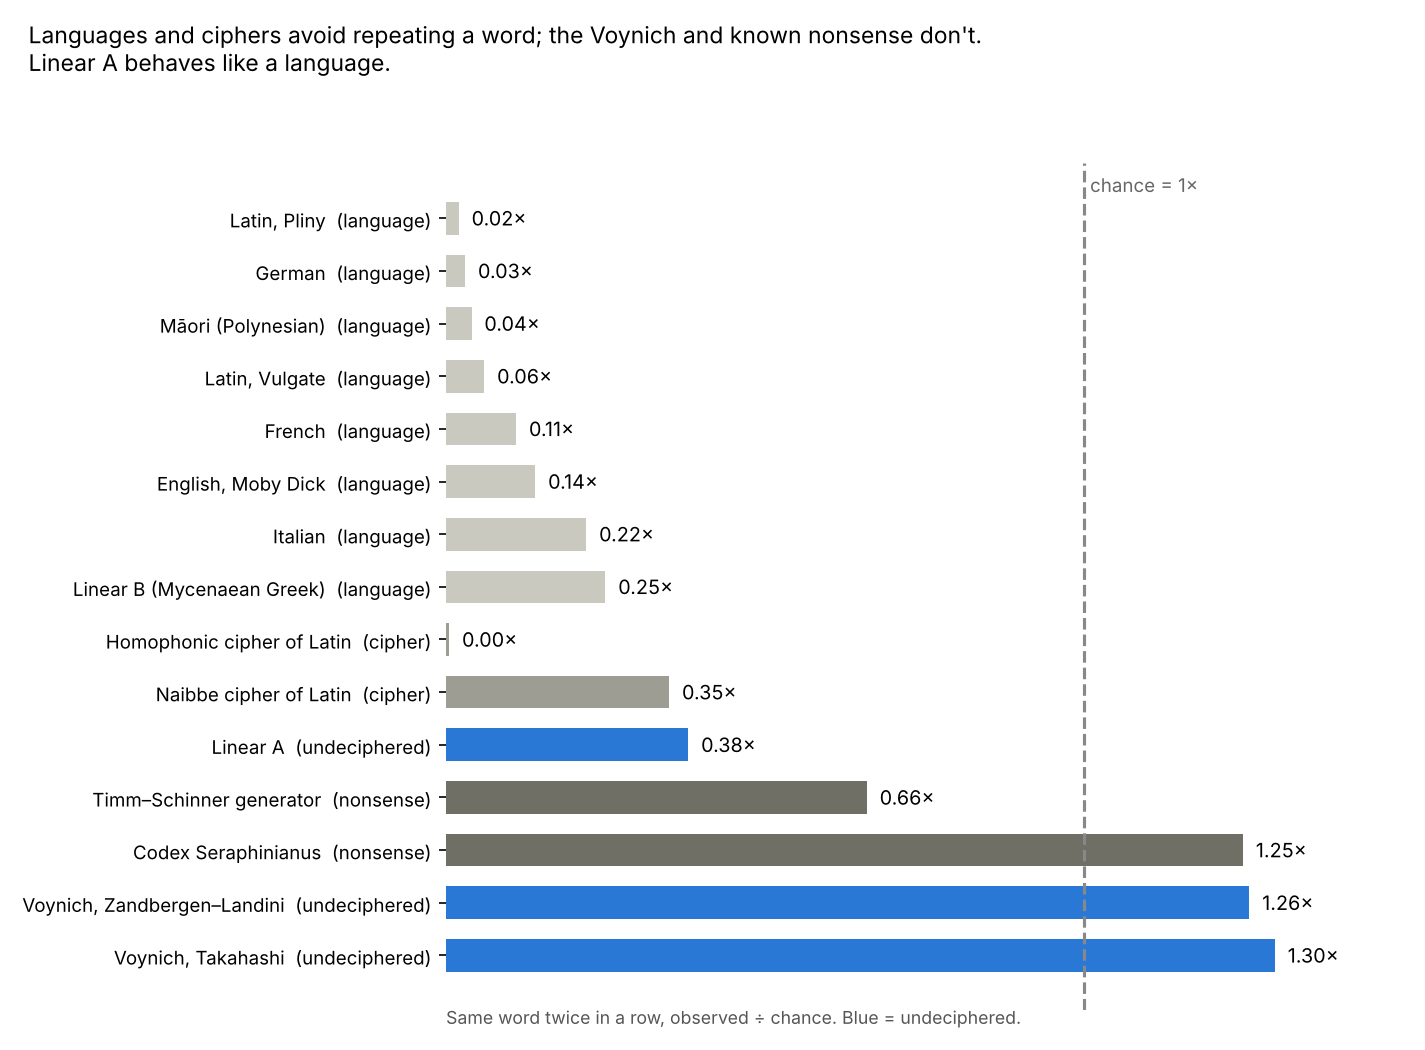
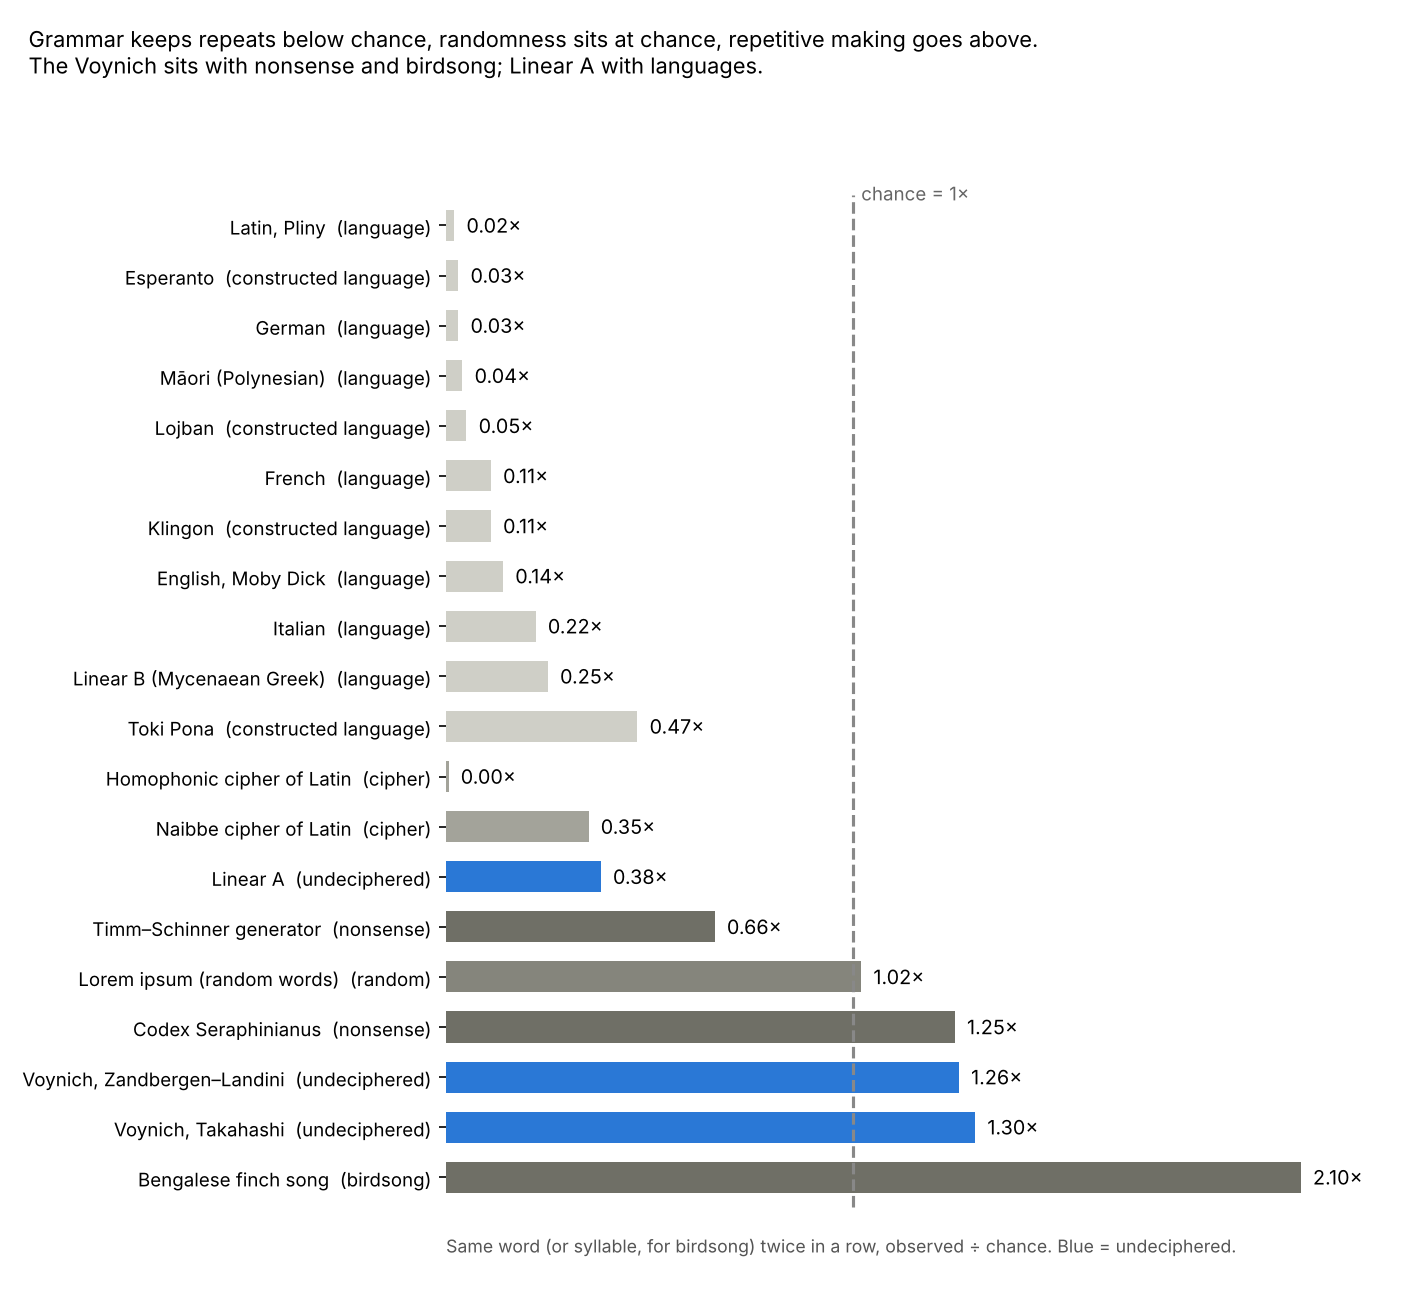
Add constructed languages, random filler and birdsong to the meter
Claude-Session: https://claude.ai/code/session_01BiNe7BRaaqwXjCdu5ayCNx

diff --git a/conlangs-and-oddities/code/conl_test.py b/conlangs-and-oddities/code/conl_test.py
@@ -1,0 +1,30 @@
+import sys,re,glob,json,random; sys.path.insert(0,'/home/claude/arch/work'); sys.path.insert(0,'/home/claude')
+from scripts_test import test
+import lorem
+C='/home/claude/conl/'
+def sents(text,alpha):
+    out=[]
+    for s in re.split(r'[.!?;:\n]+',text.lower()):
+        ws=re.findall(alpha,s)
+        if len(ws)>=3: out.append([tuple(w) for w in ws])
+    return out
+R={}
+kl=' '.join(open(f,errors='ignore').read() for f in glob.glob(C+'klingon/sources/**/*.txt',recursive=True))
+R['Klingon (xifan hol spelling)']=test(sents(kl,r"[a-z]+"),near=True)
+eo=open(C+'eo/RAW/wsdump-Zamenhof_Dietterle_Originala_Verkaro_1929.txt',errors='ignore').read()
+R['Esperanto (Zamenhof)']=test(sents(eo,r"[a-zĉĝĥĵŝŭ]+")[:20000],near=True)
+tp=[]
+for f in glob.glob(C+'poki/plaintext/**/*.md',recursive=True):
+    t='\n'.join(l for l in open(f,errors='ignore') if not l.lstrip().startswith(('#','|','---','!','[','<','>')))
+    tp+=sents(t,r"[a-z]+")
+R['Toki Pona']=test(tp[:20000],near=True)
+jb=[l.split('\t')[1] for l in open(C+'phrases/dist/en2jb.tsv',errors='ignore') if '\t' in l]
+R['Lojban']=test([[tuple(w.strip(".")) for w in s.split() if w.strip(".")] for s in jb][:20000],near=True)
+bird=[list(l.strip()) for f in glob.glob(C+'POMM-Python/*observed_sequences*.txt')+glob.glob(C+'POMM-Python/baseline_subset_1.txt') for l in open(f) if len(l.strip())>=3]
+R['Bengalese finch song (syllables)']=test(bird)
+random.seed(1); lo=[s for s in (lorem.sentence() for _ in range(4000))]
+R['Lorem ipsum (random filler)']=test(sents(' . '.join(lo),r"[a-z]+"),near=True)
+for k,v in R.items():
+    nr=f"  near {v['near']:.2f}x" if 'near' in v else ''
+    print(f"{k:34s} pairs {v['pairs']:7d}  same-twice {v['exact']:.2f}x (p_hi {v['p_hi']:.3f}, p_lo {v['p_lo']:.3f}){nr}")
+json.dump(R,open('conl_results.json','w'),indent=1)

diff --git a/conlangs-and-oddities/README.md b/conlangs-and-oddities/README.md
@@ -1,0 +1,39 @@
+# Constructed languages, randomness and birdsong
+
+*Part of [the Untranslatable Archive](../README.md).*
+
+**Short answer: the meter measures grammar, not "natural versus invented."** Every constructed language tested avoids repeating a word like a real language does. Random words land almost exactly at chance. Birdsong lands far above it, higher than the Voynich.
+
+| Text | Kind | Same word twice in a row, observed ÷ chance |
+| --- | --- | --- |
+| Esperanto (Zamenhof's own writings) | constructed language | 0.03× |
+| Lojban | constructed language | 0.05× |
+| Klingon | constructed language | 0.11× |
+| Toki Pona | constructed language | 0.47× |
+| Lorem ipsum (randomly drawn filler words) | random | 1.02× |
+| Bengalese finch song (syllables) | birdsong | 2.10× |
+
+All are significantly different from chance except Lorem ipsum, which isn't (p ≈ 0.27), as it shouldn't be.
+
+## What each one shows
+
+- **Constructed languages behave like languages.** Esperanto, Lojban and Klingon were invented, but they have real grammar, and they sit among natural languages. So the Voynich's above-chance repetition can't be explained by "someone invented a language." An invented language with grammar would still avoid repeats.
+- **Toki Pona is the loosest** at 0.47×. It has only about 120 words, so the same word comes up constantly and grammar has less room to keep repeats apart. It's still well below chance.
+- **Lorem ipsum calibrates the meter.** Words drawn at random are exactly what the shuffle imitates, so they should land at 1×, and they do (1.02×). Below 1 means grammar; about 1 means randomness; above 1 means something repetitive is producing the text.
+- **Birdsong is the most extreme reading in the archive.** Bengalese finches sing a syllable over and over (`BBBB`, `CCCCCCCC`). An animal's song lands on the Voynich side, which shows that "above chance" means *repetitive production*, not meaning. Birdsong is measured by syllable, the only unit it has.
+
+## Not on the meter
+
+- **Elvish (Quenya, Sindarin):** no open running-text corpus could be found, and Tolkien's own texts are short and still under copyright.
+- **Octopus:** octopuses signal with changing skin color, pattern and texture, not sequences of discrete units that anyone has transcribed. If a corpus ever exists, it goes here.
+- **Whale and dolphin song:** no open sequence data turned up.
+
+## Sources
+
+- Klingon: [dadap/tlhIngan-Hol-QIch-wab-tamey](https://github.com/dadap/tlhIngan-Hol-QIch-wab-tamey), text sources only, in "xifan hol" spelling (`z` for the apostrophe; `zayz waz` = *'ay' wa'*, "part one").
+- Esperanto: Zamenhof's *Originala Verkaro* (1929), from [alexcasper/esperanto](https://github.com/alexcasper/esperanto).
+- Toki Pona: [kulupu-lapo/poki](https://github.com/kulupu-lapo/poki).
+- Lojban: [La-Lojban/phrases](https://github.com/La-Lojban/phrases).
+- Bengalese finch song sequences: [djinpsu/POMM-Python](https://github.com/djinpsu/POMM-Python).
+- Lorem ipsum: generated with the Python [`lorem`](https://pypi.org/project/lorem/) package.
+- Shuffles are within each sentence (or song bout), 500 times. Every number is in [`results.json`](results.json).

diff --git a/README.md b/README.md
@@ -10,7 +10,14 @@ Real languages almost never put the same word twice in a row. Grammar prevents i
 
 ![Same word twice in a row, observed versus chance, for languages, ciphers, nonsense and undeciphered texts](archive_chart.png)
 
-Every real language tested sits far below chance, including Māori, a Polynesian language full of doubled syllables. So do both kinds of classic cipher. The Voynich sits above chance, next to a book known to be meaningless. Linear A, the undeciphered script of Minoan Crete, sits with the languages.
+How to read it: **below 1** means grammar is keeping repeats apart; **about 1** means words come at random; **above 1** means something repetitive is producing the text.
+
+- Every real language sits far below chance, including Māori, a Polynesian language full of doubled syllables.
+- So does every constructed language tested: Esperanto, Lojban, Klingon and Toki Pona. The meter measures grammar, not whether a language is natural.
+- Both kinds of classic cipher sit below chance as well.
+- Randomly drawn words (Lorem ipsum) land almost exactly at chance, which calibrates the meter.
+- The Voynich sits above chance, next to a book known to be meaningless, and below birdsong, the most repetitive thing measured.
+- Linear A, the undeciphered script of Minoan Crete, sits with the languages.
 
 ## The texts
 
@@ -21,7 +28,7 @@ Every real language tested sits far below chance, including Māori, a Polynesian
 | **Rongorongo** | Easter Island, before the 1860s | Neither language-like nor copying-like. Sits at chance, unlike every language tested. | [rongorongo/](rongorongo/README.md) |
 | **Linear A** | Minoan Crete, about 1800–1450 BC | Behaves like a language, just like its deciphered cousin Linear B. | [linear-a/](linear-a/README.md) |
 
-Comparison texts (languages, ciphers, known nonsense) are described in [controls/](controls/README.md).
+Comparison texts are described in [controls/](controls/README.md) (languages, ciphers, known nonsense) and [conlangs-and-oddities/](conlangs-and-oddities/README.md) (Klingon, Esperanto, Lojban, Toki Pona, random filler, birdsong; Elvish and octopus still wanted).
 
 ## How this was made
 

diff --git a/NOTEBOOK.md b/NOTEBOOK.md
@@ -69,12 +69,15 @@ Clint asked to keep going: add rongorongo and turn the repository into an archiv
 - **Rongorongo** sits at chance: it neither avoids repeats like every language tested, Māori syllables included, nor seeks them like the Voynich.
 - The Voynich and Rohonc work moved into their own folders, and the front page became an index with one master chart.
 
+- **Constructed languages and oddities.** Clint asked whether invented languages like Klingon and Elvish belonged on the meter, and for something truly weird ("put octopus on the meter"). Klingon, Esperanto, Lojban and Toki Pona all behave like languages. Random filler words land at chance. Bengalese finch song lands far above, the most repetitive thing measured. No open corpus was found for Elvish, and no octopus signals have ever been transcribed as sequences.
+
 ## Open threads
 
 - Herbal and other Voynich sections need a segmenter that can separate text from drawings.
 - Homophonic and nomenclator ciphers haven't been tested against the repeat signature.
 - A scribe model that copies while keeping a large vocabulary.
 - The full rongorongo corpus (only tablets A–F are in the open XML corpus used here).
+- Elvish, whale song and, someday, octopus, if open corpora turn up.
 - The Copiale Cipher, if a transcription can be found, as a real-world cipher control.
 - The Rohonc repeat test on Király and Tokai's human transcription, whose site permits analysis but wasn't reachable from the workspace.
 - A note to the *Strata* author, whose work the ink check most directly extends.
